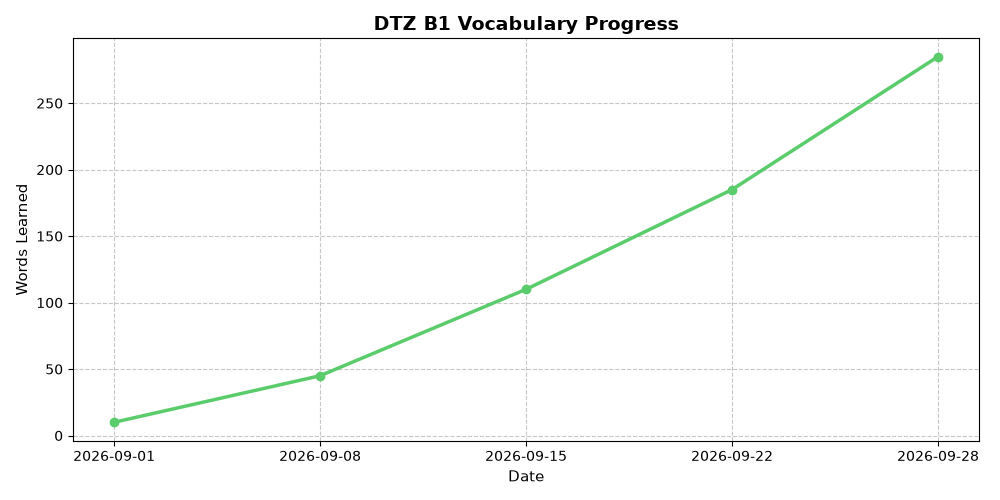
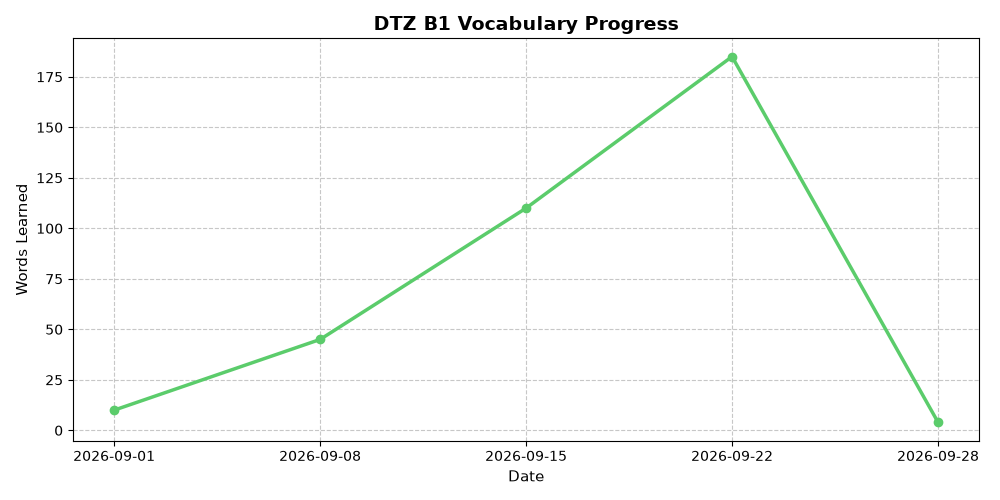
Auto-update progress chart: 2026-09-28

diff --git a/generate_chart.py b/generate_chart.py
@@ -9,7 +9,7 @@ try:
     url = "http://localhost:5678/webhook/current-score"
     response = urllib.request.urlopen(url)
     data = json.loads(response.read().decode())
-    live_score = data[0]['score']  # Extracts the number from the n8n JSON
+    live_score = data['score']  # Extracts the number from the n8n JSON
     
     # 2. Append today's date and live score to the CSV
     today = datetime.now().strftime('%Y-%m-%d')
